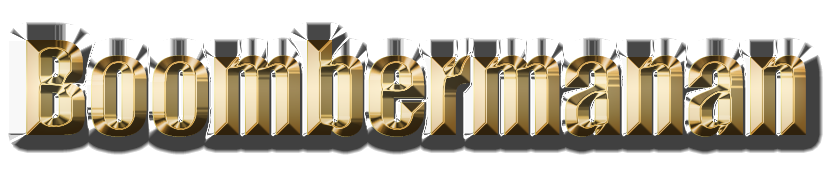
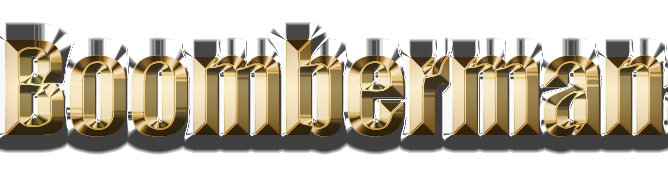
menu nouveau jeu
- correction du logo : Boomberman à la place de Boombermanan
- optimisation des fonctions de sélection
- passage au menu nouveau jeu et retour au menu principal

diff --git a/local/main.py b/local/main.py
@@ -5,6 +5,17 @@ import winsound
 fontSize = 25
 fontName = "Bauhaus 93"
 fontColor = "#f23933"
+etat = "menu principal"
+tableauBottom = [0] * 10
+tableauText = [0] * 10
+
+"""
+menu_principale
+nouvelle_partie
+paramètres
+score
+jeu
+"""
 
 class Personnage:
     def __init__(self, name, playerID, nbBombs):
@@ -14,6 +25,7 @@ class Personnage:
 
 def bouton_entree(event):
     print("enter")
+    
 
 def bouton_up(event):
     print("up")
@@ -28,6 +40,16 @@ def bouton_left(event):
     print("left")
 
 def bottom(event):
+    global etat
+    if etat == "menu principal":
+        if event.x > (1280/1.3 - 188) and event.x < (1280/1.3 + 188) and event.y > (700/2.8 - 33) and event.y < (700/2.8 + 33):
+            etat = "nouvelle partie"
+            nouvelle_partie()
+    elif etat == "nouvelle partie":
+        if event.x > 1280/4.5 - 188 and event.x < 1280/4.5 + 188 and event.y > 700/1.17 - 33 and event.y < 700/1.17 + 33:
+            etat = "menu principal"
+            menu_principal()
+        
     print(event.x, event.y)
 
 
@@ -37,55 +59,43 @@ Début des fonctions de sélection
 
 """
 
-def bottom_bleu1(event):
-    bottom1_1 = main_canvas.create_image(1280/1.3, 700/2.8, image = bottomImageSelection)
-    text1_1 = main_canvas.create_text (1280/1.3, 700/2.8, font=(fontName, fontSize), text='Nouvelle Partie', fill=fontColor)
-    main_canvas.tag_bind(bottom1_1, "<Leave>", bottom_remove_bleu1)
-    main_canvas.tag_bind(text1_1, "<Leave>", bottom_remove_bleu1)
+def bottom_bleu1(event, text, x, y, boutonID, image):
+    if image == 0:
+        tableauBottom[boutonID] = main_canvas.create_image(x, y, image = bottomImageSelection)
+    elif image == 1:
+        tableauBottom[boutonID] = main_canvas.create_image(x, y, image = bottomImageSelection2)
+    tableauText[boutonID] = main_canvas.create_text (x, y, font=(fontName, fontSize), text=text, fill=fontColor)
+    main_canvas.tag_bind(tableauBottom[boutonID], "<Leave>", lambda event: bottom_remove_bleu1(event, text=text, x = x, y = y, boutonID = boutonID, image = image))
 
-def bottom_bleu2(event):
-    bottom2_1 = main_canvas.create_image(1280/1.3, 700/2, image = bottomImageSelection)
-    text2_1 = main_canvas.create_text (1280/1.3, 700/2, font=(fontName, fontSize), text='Paramètres', fill=fontColor)
-    main_canvas.tag_bind(bottom2_1, "<Leave>", bottom_remove_bleu2)
-    main_canvas.tag_bind(text2_1, "<Leave>", bottom_remove_bleu2)
-
-def bottom_bleu3(event):
-    bottom3_1 = main_canvas.create_image(1280/1.3, 700/1.55556, image = bottomImageSelection)
-    text3_1 = main_canvas.create_text (1280/1.3, 700/1.55556, font=(fontName, fontSize), text='Score', fill=fontColor)
-    main_canvas.tag_bind(bottom3_1, "<Leave>", bottom_remove_bleu3)
-    main_canvas.tag_bind(text3_1, "<Leave>", bottom_remove_bleu3)
-
-def bottom_bleu4(event):
-    bottom4_1 = main_canvas.create_image(1280/1.3, 700/1.17, image = bottomImageSelection2)
-    text4_1 = main_canvas.create_text (1280/1.3, 700/1.17, font=(fontName, fontSize), text='Quitter', fill=fontColor)
-    main_canvas.tag_bind(bottom4_1, "<Leave>", bottom_remove_bleu4)
-    main_canvas.tag_bind(text4_1, "<Leave>", bottom_remove_bleu4)
+def bottom_bleu2(event, text, x, y, boutonID, image):
+    if image == 0:
+        tableauBottom[boutonID] = nouvellePartieCanvas.create_image(x, y, image = bottomImageSelection)
+    elif image == 1:
+        tableauBottom[boutonID] = nouvellePartieCanvas.create_image(x, y, image = bottomImageSelection2)
+    tableauText[boutonID] = nouvellePartieCanvas.create_text (x, y, font=(fontName, fontSize), text=text, fill=fontColor)
+    nouvellePartieCanvas.tag_bind(tableauBottom[boutonID], "<Leave>", lambda event: bottom_remove_bleu2(event, text=text, x = x, y = y, boutonID = boutonID, image = image))
 
     
 
-def bottom_remove_bleu1(event):
-    bottom1_2 = main_canvas.create_image(1280/1.3, 700/2.8, image = bottomImage)
-    text1_2 = main_canvas.create_text (1280/1.3, 700/2.8, font=(fontName, fontSize), text='Nouvelle Partie', fill=fontColor)
-    main_canvas.tag_bind(bottom1_2, "<Enter>", bottom_bleu1)
-    main_canvas.tag_bind(text1_2, "<Enter>", bottom_bleu1)
+def bottom_remove_bleu1(event, text, x, y, boutonID, image):
+    if image == 0:
+        tableauBottom[boutonID] = main_canvas.create_image(x, y, image = bottomImage)
+    elif image == 1:
+        tableauBottom[boutonID] = main_canvas.create_image(x, y, image = bottomImage2)
+    tableauText[boutonID] = main_canvas.create_text (x, y, font=(fontName, fontSize), text=text, fill=fontColor)
+    main_canvas.tag_bind(tableauBottom[boutonID], "<Enter>", lambda event: bottom_bleu1(event, text=text, x = x, y = y, boutonID = boutonID, image = image))
+    main_canvas.tag_bind(tableauText[boutonID], "<Enter>", lambda event: bottom_bleu1(event, text=text, x = x, y = y, boutonID = boutonID, image = image))
 
-def bottom_remove_bleu2(event):
-    bottom2_2 = main_canvas.create_image(1280/1.3, 700/2, image = bottomImage)
-    text2_2 = main_canvas.create_text (1280/1.3, 700/2, font=(fontName, fontSize), text='Paramètres', fill=fontColor)
-    main_canvas.tag_bind(bottom2_2, "<Enter>", bottom_bleu2)
-    main_canvas.tag_bind(text2_2, "<Enter>", bottom_bleu2)
+def bottom_remove_bleu2(event, text, x, y, boutonID, image):
+    if image == 0:
+        tableauBottom[boutonID] = nouvellePartieCanvas.create_image(x, y, image = bottomImage)
+    elif image == 1:
+        tableauBottom[boutonID] = nouvellePartieCanvas.create_image(x, y, image = bottomImage2)
+    tableauText[boutonID] = nouvellePartieCanvas.create_text (x, y, font=(fontName, fontSize), text=text, fill=fontColor)
+    nouvellePartieCanvas.tag_bind(tableauBottom[boutonID], "<Enter>", lambda event: bottom_bleu2(event, text=text, x = x, y = y, boutonID = boutonID, image = image))
+    nouvellePartieCanvas.tag_bind(tableauText[boutonID], "<Enter>", lambda event: bottom_bleu2(event, text=text, x = x, y = y, boutonID = boutonID, image = image))
 
-def bottom_remove_bleu3(event):
-    bottom3_2 = main_canvas.create_image(1280/1.3, 700/1.55556, image = bottomImage)
-    text3_2 = main_canvas.create_text (1280/1.3, 700/1.55556, font=(fontName, fontSize), text='Score', fill=fontColor)
-    main_canvas.tag_bind(bottom3_2, "<Enter>", bottom_bleu3)
-    main_canvas.tag_bind(text3_2, "<Enter>", bottom_bleu3)
 
-def bottom_remove_bleu4(event):
-    bottom4_2 = main_canvas.create_image(1280/1.3, 700/1.17, image = bottomImage2)
-    text4_2 = main_canvas.create_text (1280/1.3, 700/1.17, font=(fontName, fontSize), text='Quitter', fill=fontColor)
-    main_canvas.tag_bind(bottom4_2, "<Enter>", bottom_bleu4)
-    main_canvas.tag_bind(text4_2, "<Enter>", bottom_bleu4)
 
 """
 
@@ -96,13 +106,78 @@ Fin des fonctions de sélection
 
 
 def callback():
-    if messagebox.askokcancel("Quit", "Voulez-vous vraiment quitter ?"):
+    if messagebox.askokcancel("Quit", "Voulez-vous vraiment quitter le jeu?"):
         window.destroy()
         winsound.PlaySound(None, winsound.SND_ASYNC)
 
+def nouvelle_partie():
+    global nouvellePartieCanvas
+    main_canvas.destroy()
+
+    nouvellePartieCanvas = Canvas(window, bg="white", width = 1280, height = 700)
+    nouvellePartieCanvas.grid(row = 0, column = 0)
+
+    nouvellePartieCanvas.create_image(1280/2, 700/2, image = imageBG)
+    nouvellePartieCanvas.create_image(1280/3, 700/6, image = logo)
+    nouvellePartieCanvas.create_image (1280/2, 700/2.7, image = imageFondTitre)
+    
+    bottom5 = nouvellePartieCanvas.create_image(1280/2, 700/1.8, image = bottomImage)
+    bottom6 = nouvellePartieCanvas.create_image(1280/2, 700/1.45, image = bottomImage)
+    bottom7 = nouvellePartieCanvas.create_image(1280/4.5, 700/1.17, image = bottomImage2)
+
+    nouvellePartieCanvas.create_text (1280/2, 700/2.7, font=(fontName, int(fontSize*1.5)), text='Nouvelle Partie', fill="white")
+    nouvellePartieCanvas.create_text (1280/2, 700/1.8, font=(fontName, fontSize), text='Un joueur', fill=fontColor)
+    nouvellePartieCanvas.create_text (1280/2, 700/1.45, font=(fontName, fontSize), text='Multijoueur', fill=fontColor)
+    nouvellePartieCanvas.create_text (1280/4.5, 700/1.17, font=(fontName, fontSize), text='<---- Retour', fill=fontColor)
+
+    nouvellePartieCanvas.tag_bind(bottom5, "<Enter>", lambda event: bottom_bleu2(event, text="Un joueur", x = 1280/2, y = 700/1.8, boutonID = 4, image = 0))
+    nouvellePartieCanvas.tag_bind(bottom6, "<Enter>", lambda event: bottom_bleu2(event, text="Multijoueur", x = 1280/2, y = 700/1.45, boutonID = 5, image = 0))
+    nouvellePartieCanvas.tag_bind(bottom7, "<Enter>", lambda event: bottom_bleu2(event, text="<---- Retour", x = 1280/4.5, y = 700/1.17, boutonID = 6, image = 1))
+    
+
+def menu_principal():
+    try:
+        nouvellePartieCanvas.destroy()
+    except:
+        print("ok")
+    
+    global main_canvas
+    global logo, imageBG, imageFondTitre, bottomImage, bottomImage2, bottomImageSelection, bottomImageSelection2
+    main_canvas = Canvas(window, bg="white", width = 1280, height = 700)
+    main_canvas.grid(row = 0, column = 0)
+
+    #importation des images 
+    logo = PhotoImage(file = "images/Boomberman.png")
+    imageBG = PhotoImage(file = "images/background.png")
+    imageFondTitre = PhotoImage (file = "images/titre.png")
+    bottomImage = PhotoImage(file = "images/Bottom.png")
+    bottomImage2 = PhotoImage (file = "images/Bottom_exit.png")
+    bottomImageSelection = PhotoImage (file = "images/Bottom_selection.png")
+    bottomImageSelection2 = PhotoImage (file = "images/Bottom_exit_selection.png")
+
+    #insertion d'images
+    main_canvas.create_image(1280/2, 700/2, image = imageBG)
+    main_canvas.create_image(1280/3, 700/6, image = logo)
+    bottom1 = main_canvas.create_image(1280/1.3, 700/2.8, image = bottomImage)
+    bottom2 = main_canvas.create_image(1280/1.3, 700/2, image = bottomImage)
+    bottom3 = main_canvas.create_image(1280/1.3, 700/1.55556, image = bottomImage)
+    bottom4 = main_canvas.create_image(1280/1.3, 700/1.17, image = bottomImage2)
+
+    #insertion du texte
+    main_canvas.create_text (1280/1.3, 700/2.8, font=(fontName, fontSize), text='Nouvelle Partie', fill=fontColor)
+    main_canvas.create_text (1280/1.3, 700/2, font=(fontName, fontSize), text='Paramètres', fill=fontColor)
+    main_canvas.create_text (1280/1.3, 700/1.55556, font=(fontName, fontSize), text='Score', fill=fontColor)
+    main_canvas.create_text (1280/1.3, 700/1.17, font=(fontName, fontSize), text='Quitter', fill=fontColor)
+
+    #Si la sourie rentre dans un des images -> animation de sélection
+    main_canvas.tag_bind(bottom1, "<Enter>", lambda event: bottom_bleu1(event, text="Nouvelle Partie", x = 1280/1.3, y = 700/2.8, boutonID = 0, image = 0))
+    main_canvas.tag_bind(bottom2, "<Enter>", lambda event: bottom_bleu1(event, text="Paramètres", x = 1280/1.3, y = 700/2, boutonID = 1, image = 0))
+    main_canvas.tag_bind(bottom3, "<Enter>", lambda event: bottom_bleu1(event, text="Score", x = 1280/1.3, y = 700/1.55556, boutonID = 2, image = 0))
+    main_canvas.tag_bind(bottom4, "<Enter>", lambda event: bottom_bleu1(event, text="Quitter", x = 1280/1.3, y = 700/1.17, boutonID = 3, image = 1))
+
+
 def main():
-    global window, main_canvas
-    global bottomImage, bottomImage2, bottomImageSelection, bottomImageSelection2
+    global window
     
     window = Tk()
     window.title("Boomberman")
@@ -121,41 +196,12 @@ def main():
     window.bind("<Left>",bouton_left)
     window.bind("<Button-1>", bottom)
 
-    main_canvas = Canvas(window, bg="white", width = 1280, height = 700)
-    main_canvas.grid(row = 0, column = 0)
-
-    #importation des images
-    logo = PhotoImage(file = "images/Boomberman.png")
-    imageBG = PhotoImage(file = "images/background.png")
-    bottomImage = PhotoImage(file = "images/Bottom.png")
-    bottomImage2 = PhotoImage (file = "images/Bottom_exit.png")
-    bottomImageSelection = PhotoImage (file = "images/Bottom_selection.png")
-    bottomImageSelection2 = PhotoImage (file = "images/Bottom_exit_selection.png")
-
-    #insertion d'images
-    main_canvas.create_image(1280/2, 700/2, image = imageBG)
-    main_canvas.create_image(1280/3 + 50, 700/6, image = logo)
-    bottom1 = main_canvas.create_image(1280/1.3, 700/2.8, image = bottomImage, tags = "bottom1")
-    bottom2 = main_canvas.create_image(1280/1.3, 700/2, image = bottomImage)
-    bottom3 = main_canvas.create_image(1280/1.3, 700/1.55556, image = bottomImage)
-    bottom4 = main_canvas.create_image(1280/1.3, 700/1.17, image = bottomImage2)
-
-    #insertion du texte
-    main_canvas.create_text (1280/1.3, 700/2.8, font=(fontName, fontSize), text='Nouvelle Partie', fill=fontColor)
-    main_canvas.create_text (1280/1.3, 700/2, font=(fontName, fontSize), text='Paramètres', fill=fontColor)
-    main_canvas.create_text (1280/1.3, 700/1.55556, font=(fontName, fontSize), text='Score', fill=fontColor)
-    main_canvas.create_text (1280/1.3, 700/1.17, font=(fontName, fontSize), text='Quitter', fill=fontColor)
-
-    #Si la sourie rentre dans un des images -> animation de sélection
-    main_canvas.tag_bind(bottom1, "<Enter>", bottom_bleu1)
-    main_canvas.tag_bind(bottom2, "<Enter>", bottom_bleu2)
-    main_canvas.tag_bind(bottom3, "<Enter>", bottom_bleu3)
-    main_canvas.tag_bind(bottom4, "<Enter>", bottom_bleu4)
+    menu_principal()
     
     window.mainloop()
 
 
-winsound.PlaySound("son/01 Unleashed.wav", winsound.SND_FILENAME | winsound.SND_ASYNC)
+#winsound.PlaySound("son/01 Unleashed.wav", winsound.SND_FILENAME | winsound.SND_ASYNC | winsound.SND_LOOP)
 
 
 main()
